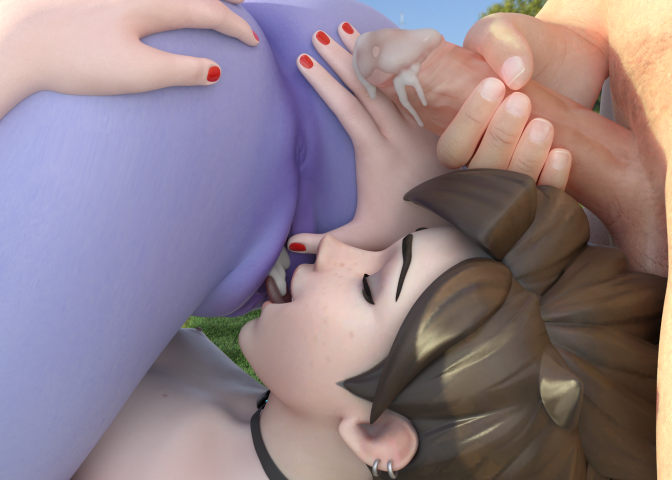
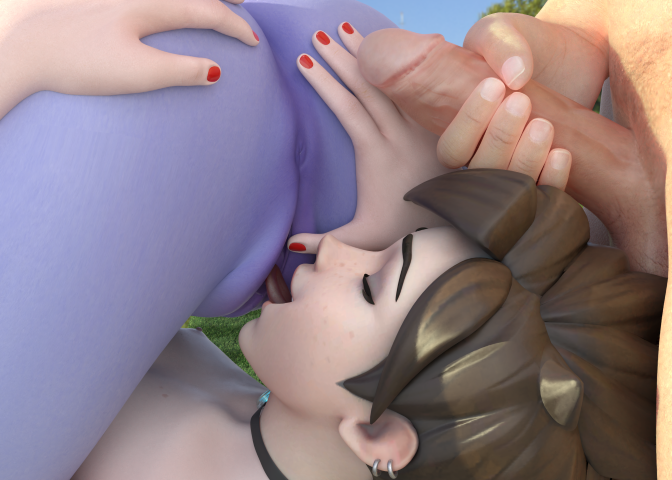
Cum toggle works for the first image
Still have to figur eout a way to remember the state of the toggle to adapt the preview.

diff --git a/script.js b/script.js
@@ -34,12 +34,21 @@ const cumSwitch = document.querySelector('.cum-switch input[type="checkbox"]');
 for (i = 0 ; i < gallery.length ; i++) {
 	gallery[i].onclick = function()
 	{
-		modal.style.display = "block";
+		// Retrieving information from the file
 		var newSrc = this.src;
-		var filename = newSrc.substring(newSrc.lastIndexOf('/')+1).split('.');
-        var filepath = newSrc.substring(0, newSrc.lastIndexOf('/')+1);
-		// alert("filepath = " + filepath + "\nfilename[0] = " + filename[0] + "\nfilename[1] = " + filename[1]);
-		modalImg.attr('src', filepath + filename[0] + ' - L' + '.' + filename[1]);
+		var filename = newSrc.substring(newSrc.lastIndexOf('/')+1).split('.'); // Isolating the file name
+        var filepath = newSrc.substring(0, newSrc.lastIndexOf('/')+1); // Isolating the directory
+		var imageVersion = filename[0].split('%20-%20') // Isolate the image version
+		// alert("filepath = " + filepath + "\nfilename[0] = " + filename[0] + "\nfilename[1] = " + filename[1] + "\nimageVersion[1] = " + imageVersion[1]);
+		
+		// If the image is the large version, remove that part from the basis
+		if (imageVersion[1] == 'L')
+			{
+				filename[0] = filename[0].replace('%20-%20L','');
+			}
+		
+		modal.style.display = "block";
+		modalImg.attr('src', filepath + filename[0] + ' - L' + '.' + filename[1]);	
 		document.getElementById("mem").value=this.id;
 		
 		
@@ -182,25 +191,28 @@ for (i = 0 ; i < gallery.length ; i++) {
 // Create a "reversed" images array
 	var imagesReversed = [];    
 	var i = gallery.length;
-	while(i--){
-    imagesReversed.push(gallery[i]);
-}
+	while(i--)
+	{
+		imagesReversed.push(gallery[i]);
+	}
 
 // Adds 1 from the actual id to get the target image position in the reversed array.
-	backButton.onclick = function(){
-    ImageId = document.getElementById("mem").value.split("-");
-    PreviousImage = parseInt(ImageId[1])+1;
-    if(PreviousImage>gallery.length-1){PreviousImage=0;}
-    imagesReversed[PreviousImage].click();
-}
+	backButton.onclick = function()
+	{
+		ImageId = document.getElementById("mem").value.split("-");
+		PreviousImage = parseInt(ImageId[1])+1;
+		if(PreviousImage>gallery.length-1){PreviousImage=0;}
+		imagesReversed[PreviousImage].click();
+	}
 
 // Substracts 1 from the actual id to get the target image position in the reversed array.
-	forwardButton.onclick = function(){
-    ImageId = document.getElementById("mem").value.split("-");
-    NextImage = parseInt(ImageId[1])-1;
-    if(NextImage<0){NextImage=gallery.length-1;}
-    imagesReversed[NextImage].click();
-}
+	forwardButton.onclick = function()
+	{
+		ImageId = document.getElementById("mem").value.split("-");
+		NextImage = parseInt(ImageId[1])-1;
+		if(NextImage<0){NextImage=gallery.length-1;}
+		imagesReversed[NextImage].click();
+	}
 
 span.onclick = function()
 {

diff --git a/index.html b/index.html
@@ -49,9 +49,9 @@
 			<p>Latest artwork</p>
 			
 			<!-- <div class = "cell"> <img id="img-21" src = "./images/SombraWidowDoubleFootjob.png" alt = " Talon Tag-Team :  : Sombra : Widowmaker :  : " class = "content"></img></div> -->
-			<!-- <div class = "cell"> <img id="img-20" src = "./images/TracerFelching.png" alt = " Dinner is served :  : Tracer : Widowmaker :  :  :  : Cum" class = "content"></img></div> -->
-			<!-- <div class = "cell"> <img id="img-19" src = "./images/ParkingSpot - WM.png" alt = "Wet Dreams : creativeluck60 : Mercy : Pharah : Lara Croft : https://www.twitter.com/vg_animated : https://www.reddit.com" class = "content"></img> </div> -->
-			<div class = "cell"> <img id="img-18" src = "./images/MercyCollect - WM - L.png" alt = "Afternoon delight :  : Mercy :  :  : https://twitter.com/VG_Animated/status/1277203533151035392?s=20 :  : Cum" class = "content"></img></div>
+			<!-- <div class = "cell"> <img id="img-20" src = "./images/ParkingSpot - WM.png" alt = "Wet Dreams : creativeluck60 : Mercy : Pharah : Lara Croft : https://www.twitter.com/vg_animated : https://www.reddit.com" class = "content"></img> </div> -->
+			<div class = "cell"> <img id="img-19" src = "./images/TracerFelching - L.png" alt = " Dinner is served :  : Tracer : Widowmaker :  :  :  : Cum" class = "content"></img></div>
+			<div class = "cell"> <img id="img-18" src = "./images/MercyCollect - WM.png" alt = "Afternoon delight :  : Mercy :  :  : https://twitter.com/VG_Animated/status/1277203533151035392?s=20 :  : Cum" class = "content"></img></div>
 			<div class = "cell"> <img id="img-17" src = "./images/AsheFaithWidow - WM.png" alt = "Check-up : creativeluck60 : Widowmaker : Ashe : Faith Connors : https://twitter.com/VG_Animated/status/1270703007559290885?s=20" class = "content"></img> </div>
 			<div class = "cell"> <img id="img-16" src = "./images/MercyPinkDVa - WM.png" alt = "Cervix Massage : darkrobbe1 : Mercy : D.Va :  : https://twitter.com/VG_Animated/status/1269660997930889216" class = "content"></img> </div>
 			<div class = "cell"> <img id="img-15" src = "./images/MercyStaff - WM.png" alt = "Staff Meeting : darkrobbe1 : Mercy :  :  : https://twitter.com/VG_Animated/status/1267789127522684929?s=20" class = "content"></img> </div>
